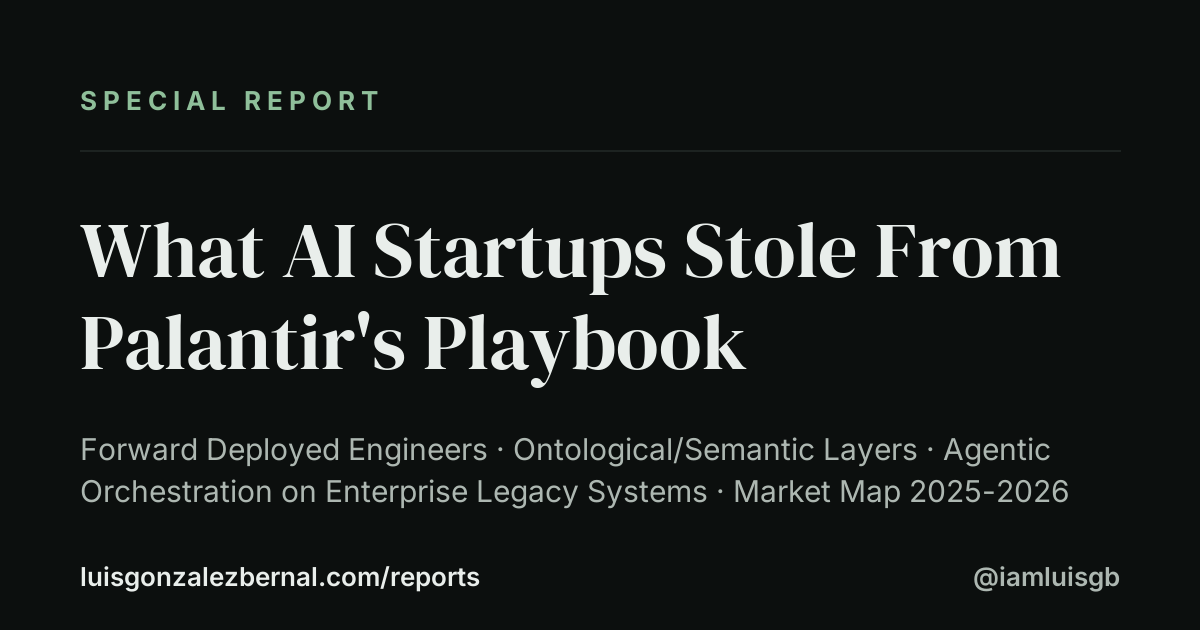
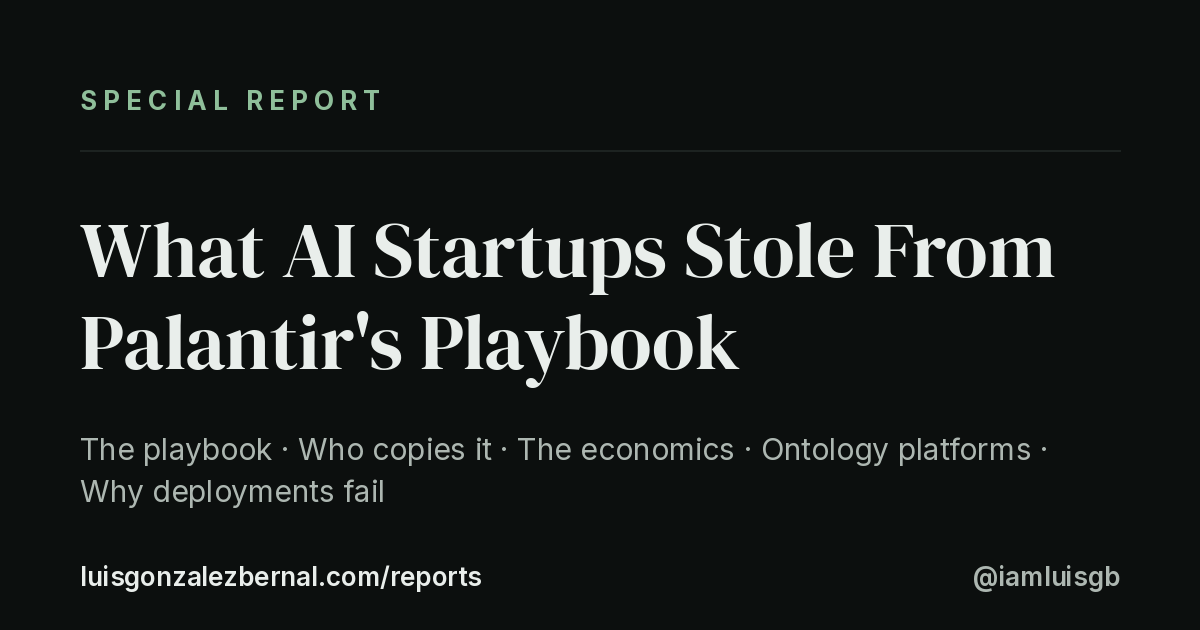
🤖 Rebuild manifest, RSS, OG images and social meta

diff --git a/index.html b/index.html
@@ -93,7 +93,7 @@
         <button class="btn" type="button" data-theme-toggle aria-label="Switch theme">◐</button>
       </div>
     </header>
-    <div class="topics" id="topics" role="group" aria-label="Filter by topic"><span class="eyebrow">Topics</span><button class="chip" type="button" data-t="memory" aria-pressed="false">Memory<span>51</span></button><button class="chip" type="button" data-t="infrastructure" aria-pressed="false">Infrastructure<span>42</span></button><button class="chip" type="button" data-t="security" aria-pressed="false">Security<span>37</span></button><button class="chip" type="button" data-t="coding" aria-pressed="false">Coding<span>34</span></button><button class="chip" type="button" data-t="multimodal" aria-pressed="false">Multimodal<span>26</span></button><button class="chip" type="button" data-t="funding" aria-pressed="false">Funding<span>11</span></button><button class="chip" type="button" data-t="hardware" aria-pressed="false">Hardware<span>9</span></button><button class="chip" type="button" data-t="open-source" aria-pressed="false">Open source<span>9</span></button><button class="chip" type="button" data-t="business" aria-pressed="false">Business<span>8</span></button><button class="chip" type="button" data-t="regulation" aria-pressed="false">Regulation<span>8</span></button><button class="chip" type="button" data-t="robotics" aria-pressed="false">Robotics<span>2</span></button><button class="link" type="button" id="clear" hidden>Clear</button></div>
+    <div class="topics" id="topics" role="group" aria-label="Filter by topic"><span class="eyebrow">Topics</span><button class="chip" type="button" data-t="memory" aria-pressed="false">Memory<span>50</span></button><button class="chip" type="button" data-t="infrastructure" aria-pressed="false">Infrastructure<span>42</span></button><button class="chip" type="button" data-t="security" aria-pressed="false">Security<span>37</span></button><button class="chip" type="button" data-t="coding" aria-pressed="false">Coding<span>34</span></button><button class="chip" type="button" data-t="multimodal" aria-pressed="false">Multimodal<span>26</span></button><button class="chip" type="button" data-t="funding" aria-pressed="false">Funding<span>12</span></button><button class="chip" type="button" data-t="hardware" aria-pressed="false">Hardware<span>9</span></button><button class="chip" type="button" data-t="open-source" aria-pressed="false">Open source<span>9</span></button><button class="chip" type="button" data-t="business" aria-pressed="false">Business<span>8</span></button><button class="chip" type="button" data-t="regulation" aria-pressed="false">Regulation<span>8</span></button><button class="chip" type="button" data-t="robotics" aria-pressed="false">Robotics<span>2</span></button><button class="link" type="button" id="clear" hidden>Clear</button></div>
     <div class="status" id="status" role="status" aria-live="polite"></div>
 
     <section class="today" id="today" aria-label="Latest briefing">
@@ -142,11 +142,11 @@
         <p>Performance · Rendering architecture · Agent-readable web · WebMCP &amp; ACP · Design systems as API · Design craft · Accessibility · 59 sources</p>
         <div class="meta"><span>3 Oct 2026</span><span>38 min <span class="arrow">→</span></span></div>
       </a>
-      <a class="sp" href="reports/knowledge-layer-2026-10-02.html" data-file="knowledge-layer-2026-10-02.html" data-vt="r-knowledge-layer-2026-10-02" data-tags="research memory" data-min="15">
+      <a class="sp" href="reports/knowledge-layer-2026-10-02.html" data-file="knowledge-layer-2026-10-02.html" data-vt="r-knowledge-layer-2026-10-02" data-tags="research memory" data-min="21">
         <div class="eyebrow"><b>Memory &amp; Knowledge</b></div>
         <h4>The Knowledge Layer for Agents: Ontologies, Graphs and Where ML Fits</h4>
         <p>What the layer is · GraphRAG versus vector RAG · Accuracy on enterprise data · Operational ontologies and actions · Where ML goes · Graphs in root cause analysis</p>
-        <div class="meta"><span>2 Oct 2026</span><span>15 min <span class="arrow">→</span></span></div>
+        <div class="meta"><span>2 Oct 2026</span><span>21 min <span class="arrow">→</span></span></div>
       </a>
       <a class="sp" href="reports/context-lake-2026-07-27.html" data-file="context-lake-2026-07-27.html" data-vt="r-context-lake-2026-07-27" data-tags="agents research memory" data-min="12">
         <div class="eyebrow"><b>Memory &amp; Knowledge</b></div>
@@ -214,10 +214,10 @@
         <p>OpenShell, NemoClaw, Hermes Agent, and the new runtime security layer for autonomous agents</p>
         <div class="meta"><span>2 Jun 2026</span><span>13 min <span class="arrow">→</span></span></div>
       </a>
-      <a class="sp" href="reports/palantir-playbook-2026.html" data-file="palantir-playbook-2026.html" data-vt="r-palantir-playbook-2026" data-tags="agents business memory" data-min="13" data-extra hidden>
+      <a class="sp" href="reports/palantir-playbook-2026.html" data-file="palantir-playbook-2026.html" data-vt="r-palantir-playbook-2026" data-tags="business funding" data-min="13" data-extra hidden>
         <div class="eyebrow"><b>Enterprise &amp; Adoption</b></div>
         <h4>What AI Startups Stole From Palantir&#x27;s Playbook</h4>
-        <p>Forward Deployed Engineers · Ontological/Semantic Layers · Agentic Orchestration on Enterprise Legacy Systems · Market Map 2025-2026</p>
+        <p>The playbook · Who copies it · The economics · Ontology platforms · Why deployments fail</p>
         <div class="meta"><span>29 May 2026</span><span>13 min <span class="arrow">→</span></span></div>
       </a>
       <a class="sp" href="reports/ai-engineering-adoption-frameworks-2026-en.html" data-file="ai-engineering-adoption-frameworks-2026-en.html" data-vt="r-ai-engineering-adoption-frameworks-2026-en" data-tags="research coding business" data-min="10" data-extra hidden>

diff --git a/reports/palantir-playbook-2026.html b/reports/palantir-playbook-2026.html
@@ -23,6 +23,45 @@
   "isAccessibleForFree": true
 }
 </script>
+<!-- og:start -->
+<meta name="description" content="The playbook · Who copies it · The economics · Ontology platforms · Why deployments fail">
+<link rel="canonical" href="https://luisgonzalezbernal.com/reports/reports/palantir-playbook-2026.html">
+<meta property="og:type" content="article">
+<meta property="og:site_name" content="AI Reports — Luis GB">
+<meta property="og:title" content="What AI Startups Stole From Palantir&#x27;s Playbook">
+<meta property="og:description" content="The playbook · Who copies it · The economics · Ontology platforms · Why deployments fail">
+<meta property="og:url" content="https://luisgonzalezbernal.com/reports/reports/palantir-playbook-2026.html">
+<meta property="og:image" content="https://luisgonzalezbernal.com/reports/og/palantir-playbook-2026.png">
+<meta property="og:image:width" content="1200">
+<meta property="og:image:height" content="630">
+<meta name="twitter:card" content="summary_large_image">
+<meta name="twitter:site" content="@iamluisgb">
+<meta name="twitter:creator" content="@iamluisgb">
+<meta name="twitter:title" content="What AI Startups Stole From Palantir&#x27;s Playbook">
+<meta name="twitter:description" content="The playbook · Who copies it · The economics · Ontology platforms · Why deployments fail">
+<meta name="twitter:image" content="https://luisgonzalezbernal.com/reports/og/palantir-playbook-2026.png">
+<!-- og:end -->
+<!-- ui:start -->
+<link rel="alternate" type="text/markdown" href="palantir-playbook-2026.md">
+<link rel="preload" href="../assets/fonts/web/InstrumentSerif-normal.woff2" as="font" type="font/woff2" crossorigin>
+<link rel="preload" href="../assets/fonts/web/InstrumentSerif-italic.woff2" as="font" type="font/woff2" crossorigin>
+<link rel="preload" href="../assets/fonts/web/Geist-normal.woff2" as="font" type="font/woff2" crossorigin>
+<link rel="preload" href="../assets/fonts/web/GeistMono-normal.woff2" as="font" type="font/woff2" crossorigin>
+<script>try{var t=localStorage.getItem('ai-reports-theme');if(t==='light'||(!t&&matchMedia('(prefers-color-scheme: light)').matches))document.documentElement.setAttribute('data-theme','light')}catch(e){}</script>
+<script type="speculationrules">{"prerender":[{"where":{"or":[{"href_matches":"/reports/"},{"href_matches":"/reports/reports/*.html"},{"href_matches":"/reports/about.html"}]},"eagerness":"moderate"}]}</script>
+<script defer src="/u/s.js" data-website-id="08c1619b-4bb8-471b-9dc9-9b6cda88e8ae" data-host-url="https://cloud.umami.is" data-domains="luisgonzalezbernal.com"></script>
+<link rel="manifest" href="../manifest.json">
+<link rel="icon" href="../assets/icons/favicon-32.png" sizes="32x32">
+<link rel="apple-touch-icon" href="../assets/icons/apple-touch-icon.png">
+<meta name="theme-color" content="#0c0f0e" media="(prefers-color-scheme: dark)">
+<meta name="theme-color" content="#f4f5f2" media="(prefers-color-scheme: light)">
+<meta name="apple-mobile-web-app-title" content="AI Reports">
+<meta name="mobile-web-app-capable" content="yes">
+<meta name="apple-mobile-web-app-capable" content="yes">
+<script src="../pwa.js" defer></script>
+<script src="../site.js" defer></script>
+<script src="../report.js" defer></script>
+<!-- ui:end -->
 </head>
 <body>
   <div class="page">

diff --git a/sitemap.md b/sitemap.md
@@ -29,7 +29,7 @@ Every report has an HTML page and a markdown twin at the same path (`.html` / `.
 
 ### Memory & Knowledge
 
-- [The Knowledge Layer for Agents: Ontologies, Graphs and Where ML Fits](https://luisgonzalezbernal.com/reports/reports/knowledge-layer-2026-10-02.md) — 2026-10-02 · 15 min
+- [The Knowledge Layer for Agents: Ontologies, Graphs and Where ML Fits](https://luisgonzalezbernal.com/reports/reports/knowledge-layer-2026-10-02.md) — 2026-10-02 · 21 min
 - [Context Lakes: What Multi-Agent Systems Need to Share](https://luisgonzalezbernal.com/reports/reports/context-lake-2026-07-27.md) — 2026-07-27 · 12 min
 - [Agent Memory: What Works, What It Costs, What Breaks](https://luisgonzalezbernal.com/reports/reports/ai-agent-memory-2026-06-28.md) — 2026-06-28 · 12 min
 

diff --git a/reports/knowledge-layer-2026-10-02.md b/reports/knowledge-layer-2026-10-02.md
@@ -5,7 +5,7 @@ type: special
 url: https://luisgonzalezbernal.com/reports/reports/knowledge-layer-2026-10-02.html
 summary: "What the layer is · GraphRAG versus vector RAG · Accuracy on enterprise data · Operational ontologies and actions · Where ML goes · Graphs in root cause analysis"
 tags: [research, memory]
-reading_time_minutes: 15
+reading_time_minutes: 21
 ---
 Memory & Knowledge · Special Report
 
